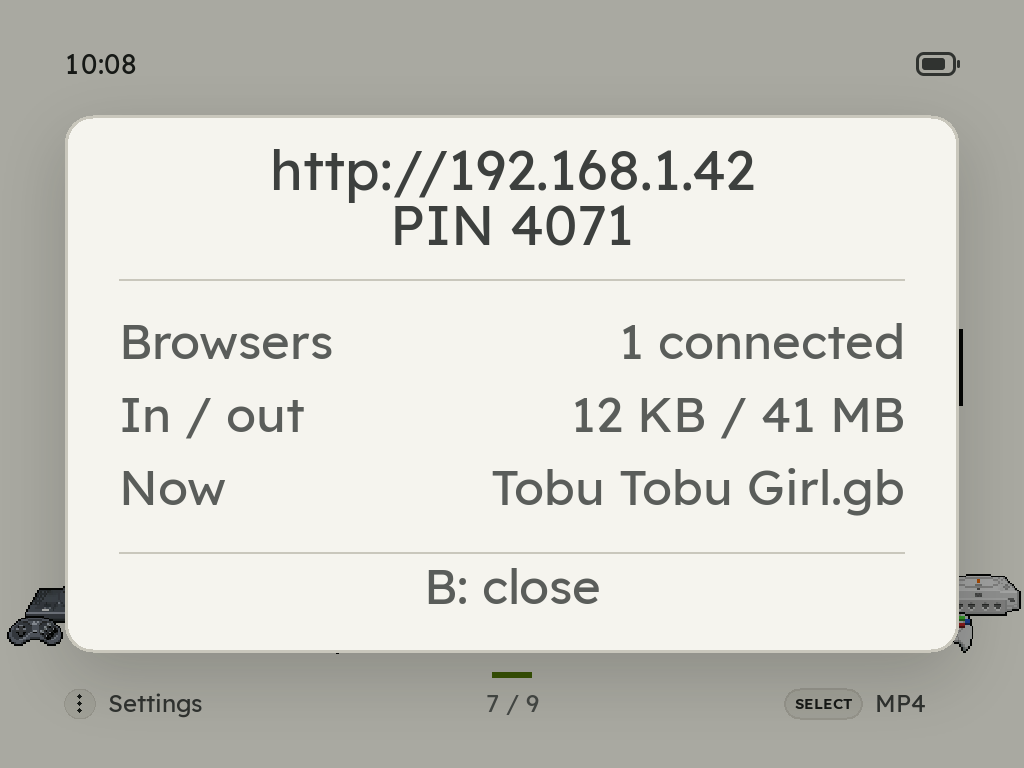
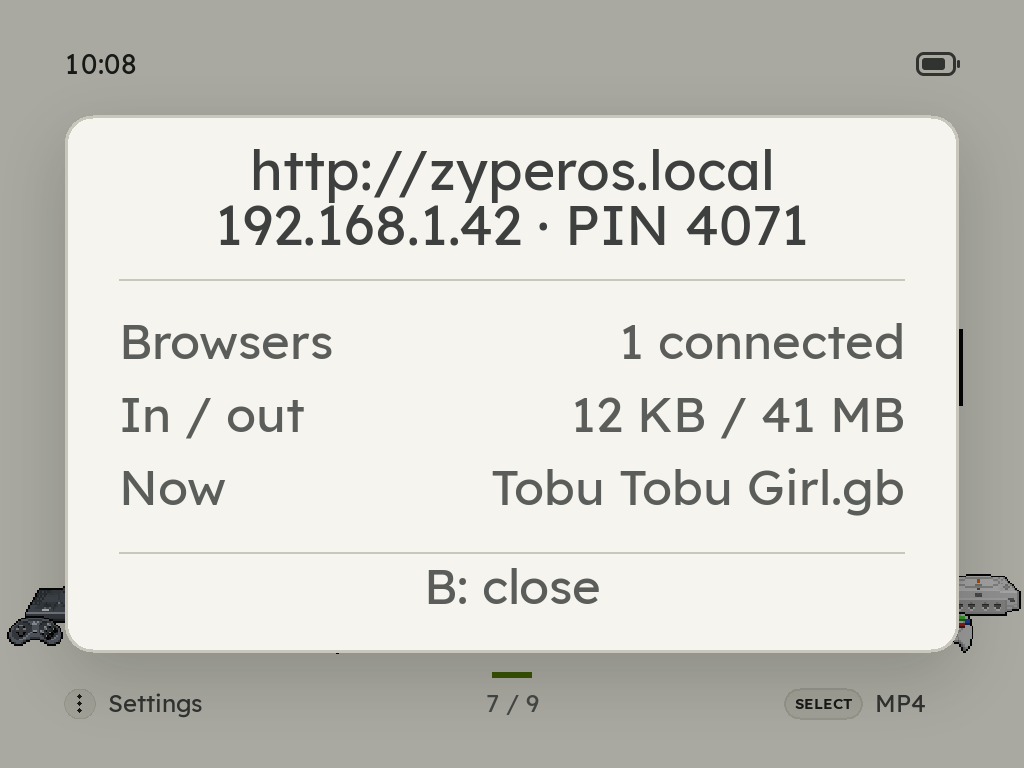
Docs: zyperos.local and the connection steps
README, the site, the guide, the add-games post, DESIGN.md 11.35 and the
Discord bot's transfer answer: the name, the steps and their hints, the /30,
and SSH by name. A new shot of the steps; the Wi-Fi shot with its new
heading.

Changed region(s): [[0.2188, 0.1875, 0.7812, 0.3438]]

diff --git a/site/index.html b/site/index.html
@@ -455,9 +455,10 @@
       <div><h3>Nintendo DS your way</h3><p>DSperate with three screen layouts and a d-pad stylus. Mario Kart DS races at 60 frames a second, and Game Language picks the language it speaks, whatever your BIOS files were dumped from.</p></div>
       <div><h3>MP4</h3><p>Music, audiobooks and videos on one shelf of their own covers, each marked album, book or video. SELECT opens it from anywhere, even in a game, and X or SELECT + START locks the screen.</p></div>
       <div><h3>Menu music</h3><p>Ten free 8-bit tracks behind the menus, never over a game. Your own in Roms/BGM play instead.</p></div>
-      <div><h3>Wi-Fi File Transfer</h3><p>Move games, music and saves from any browser, behind a PIN. With no Wi-Fi around, the handheld makes its own network for your phone. It keeps going while you play, and shows the time left.</p></div>
+      <div><h3>Wi-Fi File Transfer</h3><p>Move games, music and saves from any browser, behind a PIN, at http://zyperos.local. With no Wi-Fi around, the handheld makes its own network for your phone. It keeps going while you play, and shows the time left.</p></div>
       <div><h3>Battery care</h3><p>A charge limit of 80, 85 or 90%, a charging screen while the handheld is off, and a warning before a low battery or heat gets in the way. The corner can show the time left at once, or the time to full on the cable, instead of the percentage, and says so when the charge is on hold or done.</p></div>
       <div><h3>USB that only charges</h3><p>Plug in a computer and the Pixel 2 asks first: charge only, or open USB File Transfer. Developer Mode, hidden on About behind L2 + R2 held for five seconds, brings up SSH over the cable.</p></div>
+      <div><h3>A cable that finds its way</h3><p>Open http://zyperos.local on the computer. Until the page opens, USB File Transfer ticks off the cable, the address and the browser, and says what to do when one stalls. The cable is a network of two, so the computer never sends the page anywhere else.</p></div>
       <div><h3>System Update</h3><p>Over Wi-Fi, only what changed, signed, with Roll Back. Without Wi-Fi, the File Transfer page brings it over the USB cable.</p></div>
       <div><h3>Rumble and side lights</h3><p>Dreamcast, PlayStation and Game Boy Color rumble games shake the Pixel 2. Its four side lights show the battery charging and running low, the volume and brightness as you change them, a climb when files or covers finish, and a sparkle for an achievement. MENU &gt; Side Lights turns each on or off.</p></div>
       <div><h3>Clocks per system</h3><p>8-bit and handheld systems run at lower clocks, measured to keep every frame, and the battery lasts longer.</p></div>
@@ -473,7 +474,7 @@
   <div class="in split">
     <div class="stack">
       <h2>The File Transfer page</h2>
-      <p class="soft">The handheld shows an address and a PIN; open it in any browser, on a computer or a phone, over Wi-Fi, the handheld's own network or the USB cable. No app and no account.</p>
+      <p class="soft">The handheld shows its name, http://zyperos.local, its address and a PIN; open either in any browser, on a computer or a phone, over Wi-Fi, the handheld's own network or the USB cable. No app and no account.</p>
       <p class="soft">The card's folders, each in ZyperOS's pixel art, ROMs with a folder per console. Drop files anywhere to upload them, with the time left as they go and the card's free space checked first. Download, rename and delete from each file's menu. Over the cable, Settings fetches missing box art and updates ZyperOS with the computer's own internet.</p>
     </div>
     <figure class="browser"><img src="img/portal.png" width="1280" height="800" alt="The File Transfer page on a computer: the card's folders down the left with their pixel art, an NES folder open, and an upload under the folders with the time left" loading="lazy" decoding="async"></figure>
@@ -550,7 +551,7 @@
           <tr><th scope="row">Source, license</th><td class="us">GPL-3.0</td><td><span class="ic unk" tabindex="0" role="img" aria-label="Unknown. No source we read says either way." data-tip="No source we read says either way.">–</span></td><td>Its changed files, no license named</td><td>GPL-3.0</td><td>GPL-2.0 for its own code</td><td>MIT for its own code</td></tr>
           <tr><th scope="row">Install, latest</th><td class="us">Card image or ZyperOS Installer, v1.0.2 (Nov 2026)</td><td>On the card it comes with</td><td>Card image, then v1.22's files (Aug 2025)</td><td>Card image or TortOS Installer, v2.1.1 (Oct 2026)</td><td>Card image, 20261101 (Nov 2026)</td><td>Card image, v0.1.4 (Aug 2026), in testing</td></tr>
           <tr><th scope="row">Systems</th><td class="us">40, and Ports</td><td>Over 100 folders</td><td>117<sup>2</sup></td><td>11</td><td>120<sup>2</sup></td><td>86<sup>2</sup></td></tr>
-          <tr><th scope="row">Games without taking the card out</th><td class="us"><span class="ic yes" tabindex="0" role="img" aria-label="Yes. A web page over Wi-Fi or the USB cable, its own hotspot, and SSH" data-tip="A web page over Wi-Fi or the USB cable, its own hotspot, and SSH"><svg viewBox="0 0 24 24" aria-hidden="true"><path d="M5 12.5l4.5 4.5L19 7.5"/></svg></span></td><td><span class="ic yes" tabindex="0" role="img" aria-label="Yes. Samba file sharing over Wi-Fi" data-tip="Samba file sharing over Wi-Fi"><svg viewBox="0 0 24 24" aria-hidden="true"><path d="M5 12.5l4.5 4.5L19 7.5"/></svg></span></td><td><span class="ic yes" tabindex="0" role="img" aria-label="Yes. The USB cable, and SSH" data-tip="The USB cable, and SSH"><svg viewBox="0 0 24 24" aria-hidden="true"><path d="M5 12.5l4.5 4.5L19 7.5"/></svg></span></td><td><span class="ic yes" tabindex="0" role="img" aria-label="Yes. A web page over Wi-Fi or the USB cable" data-tip="A web page over Wi-Fi or the USB cable"><svg viewBox="0 0 24 24" aria-hidden="true"><path d="M5 12.5l4.5 4.5L19 7.5"/></svg></span></td><td><span class="ic yes" tabindex="0" role="img" aria-label="Yes. Samba, SFTP and the USB cable" data-tip="Samba, SFTP and the USB cable"><svg viewBox="0 0 24 24" aria-hidden="true"><path d="M5 12.5l4.5 4.5L19 7.5"/></svg></span></td><td><span class="ic yes" tabindex="0" role="img" aria-label="Yes. Samba, SFTP and FTP" data-tip="Samba, SFTP and FTP"><svg viewBox="0 0 24 24" aria-hidden="true"><path d="M5 12.5l4.5 4.5L19 7.5"/></svg></span></td></tr>
+          <tr><th scope="row">Games without taking the card out</th><td class="us"><span class="ic yes" tabindex="0" role="img" aria-label="Yes. A web page at zyperos.local over Wi-Fi or the USB cable, its own hotspot, and SSH" data-tip="A web page at zyperos.local over Wi-Fi or the USB cable, its own hotspot, and SSH"><svg viewBox="0 0 24 24" aria-hidden="true"><path d="M5 12.5l4.5 4.5L19 7.5"/></svg></span></td><td><span class="ic yes" tabindex="0" role="img" aria-label="Yes. Samba file sharing over Wi-Fi" data-tip="Samba file sharing over Wi-Fi"><svg viewBox="0 0 24 24" aria-hidden="true"><path d="M5 12.5l4.5 4.5L19 7.5"/></svg></span></td><td><span class="ic yes" tabindex="0" role="img" aria-label="Yes. The USB cable, and SSH" data-tip="The USB cable, and SSH"><svg viewBox="0 0 24 24" aria-hidden="true"><path d="M5 12.5l4.5 4.5L19 7.5"/></svg></span></td><td><span class="ic yes" tabindex="0" role="img" aria-label="Yes. A web page over Wi-Fi or the USB cable" data-tip="A web page over Wi-Fi or the USB cable"><svg viewBox="0 0 24 24" aria-hidden="true"><path d="M5 12.5l4.5 4.5L19 7.5"/></svg></span></td><td><span class="ic yes" tabindex="0" role="img" aria-label="Yes. Samba, SFTP and the USB cable" data-tip="Samba, SFTP and the USB cable"><svg viewBox="0 0 24 24" aria-hidden="true"><path d="M5 12.5l4.5 4.5L19 7.5"/></svg></span></td><td><span class="ic yes" tabindex="0" role="img" aria-label="Yes. Samba, SFTP and FTP" data-tip="Samba, SFTP and FTP"><svg viewBox="0 0 24 24" aria-hidden="true"><path d="M5 12.5l4.5 4.5L19 7.5"/></svg></span></td></tr>
           <tr><th scope="row">Box art on the device</th><td class="us"><span class="ic yes" tabindex="0" role="img" aria-label="Yes. Fetched on the handheld from libretro, ScreenScraper and SteamGridDB" data-tip="Fetched on the handheld from libretro, ScreenScraper and SteamGridDB"><svg viewBox="0 0 24 24" aria-hidden="true"><path d="M5 12.5l4.5 4.5L19 7.5"/></svg></span></td><td><span class="ic no" tabindex="0" role="img" aria-label="No. Not on the handheld: covers are scraped on a computer, with Skraper" data-tip="Not on the handheld: covers are scraped on a computer, with Skraper"><svg viewBox="0 0 24 24" aria-hidden="true"><path d="M7 7l10 10M17 7L7 17"/></svg></span></td><td><span class="ic yes" tabindex="0" role="img" aria-label="Yes. ScreenScraper, with your account" data-tip="ScreenScraper, with your account"><svg viewBox="0 0 24 24" aria-hidden="true"><path d="M5 12.5l4.5 4.5L19 7.5"/></svg></span></td><td><span class="ic yes" tabindex="0" role="img" aria-label="Yes. libretro and ScreenScraper" data-tip="libretro and ScreenScraper"><svg viewBox="0 0 24 24" aria-hidden="true"><path d="M5 12.5l4.5 4.5L19 7.5"/></svg></span></td><td><span class="ic yes" tabindex="0" role="img" aria-label="Yes. ScreenScraper" data-tip="ScreenScraper"><svg viewBox="0 0 24 24" aria-hidden="true"><path d="M5 12.5l4.5 4.5L19 7.5"/></svg></span></td><td><span class="ic yes" tabindex="0" role="img" aria-label="Yes. libretro&#x27;s thumbnails" data-tip="libretro&#x27;s thumbnails"><svg viewBox="0 0 24 24" aria-hidden="true"><path d="M5 12.5l4.5 4.5L19 7.5"/></svg></span></td></tr>
           <tr><th scope="row">Retro<wbr>Achievements</th><td class="us"><span class="ic yes" tabindex="0" role="img" aria-label="Yes. Sign in on the handheld" data-tip="Sign in on the handheld"><svg viewBox="0 0 24 24" aria-hidden="true"><path d="M5 12.5l4.5 4.5L19 7.5"/></svg></span></td><td><span class="ic unk" tabindex="0" role="img" aria-label="Unknown. No source we read says either way." data-tip="No source we read says either way.">–</span></td><td><span class="ic unk" tabindex="0" role="img" aria-label="Unknown. No source we read says either way." data-tip="No source we read says either way.">–</span></td><td><span class="ic yes" tabindex="0" role="img" aria-label="Yes. Sign in on the handheld" data-tip="Sign in on the handheld"><svg viewBox="0 0 24 24" aria-hidden="true"><path d="M5 12.5l4.5 4.5L19 7.5"/></svg></span></td><td><span class="ic yes" tabindex="0" role="img" aria-label="Yes. Built in" data-tip="Built in"><svg viewBox="0 0 24 24" aria-hidden="true"><path d="M5 12.5l4.5 4.5L19 7.5"/></svg></span></td><td><span class="ic unk" tabindex="0" role="img" aria-label="Unknown. No source we read says either way." data-tip="No source we read says either way.">–</span></td></tr>
           <tr><th scope="row">System updates</th><td class="us"><span class="ic yes" tabindex="0" role="img" aria-label="Yes. Over Wi-Fi or the USB cable, into a second system slot that rolls back if it fails" data-tip="Over Wi-Fi or the USB cable, into a second system slot that rolls back if it fails"><svg viewBox="0 0 24 24" aria-hidden="true"><path d="M5 12.5l4.5 4.5L19 7.5"/></svg></span></td><td><span class="ic unk" tabindex="0" role="img" aria-label="Unknown. No source we read says either way." data-tip="No source we read says either way.">–</span></td><td><span class="ic yes" tabindex="0" role="img" aria-label="Yes. Copy the new release&#x27;s files onto the card" data-tip="Copy the new release&#x27;s files onto the card"><svg viewBox="0 0 24 24" aria-hidden="true"><path d="M5 12.5l4.5 4.5L19 7.5"/></svg></span></td><td><span class="ic yes" tabindex="0" role="img" aria-label="Yes. With TortOS Installer, on a computer" data-tip="With TortOS Installer, on a computer"><svg viewBox="0 0 24 24" aria-hidden="true"><path d="M5 12.5l4.5 4.5L19 7.5"/></svg></span></td><td><span class="ic yes" tabindex="0" role="img" aria-label="Yes. Over the air, or from a file" data-tip="Over the air, or from a file"><svg viewBox="0 0 24 24" aria-hidden="true"><path d="M5 12.5l4.5 4.5L19 7.5"/></svg></span></td><td><span class="ic yes" tabindex="0" role="img" aria-label="Yes. Copy a file onto the card; a second system slot rolls back" data-tip="Copy a file onto the card; a second system slot rolls back"><svg viewBox="0 0 24 24" aria-hidden="true"><path d="M5 12.5l4.5 4.5L19 7.5"/></svg></span></td></tr>

diff --git a/site/blog/add-games-gkd-pixel-2.html b/site/blog/add-games-gkd-pixel-2.html
@@ -4,7 +4,7 @@ summary: Folder names and file types, then three ways in: the card in a computer
 crumb: Adding games
 topic: guide
 published: 2026-11-07
-updated: 2026-11-07
+updated: 2026-11-10
 image: portal
 image_alt: The File Transfer page on a computer, with an NES folder open and an upload going
 related: gkd-pixel-2-wifi-adapter, box-art-gkd-pixel-2, gkd-pixel-2-bios-files
@@ -51,8 +51,8 @@ weight: 20
 <p>The Pixel 2 has no Wi-Fi of its own, so this needs a USB Wi-Fi adapter in its USB-C port. <a href="/blog/gkd-pixel-2-wifi-adapter/">The Wi-Fi guide</a> says which ones work.</p>
 <ol>
   <li>Join a network in <strong>MENU &gt; Wi-Fi</strong>.</li>
-  <li>Open <strong>MENU &gt; Wi-Fi File Transfer</strong>. It shows an address and a four-digit PIN.</li>
-  <li>Open that address in a browser on your phone or computer, and type the PIN.</li>
+  <li>Open <strong>MENU &gt; Wi-Fi File Transfer</strong>. It shows its name, <code>http://zyperos.local</code>, its address and a four-digit PIN.</li>
+  <li>Open <code>http://zyperos.local</code> or that address in a browser on your phone or computer, and type the PIN.</li>
   <li>Drag games into their console's folder. They are on the shelf when you leave the screen.</li>
 </ol>
 <figure class="shot small"><img src="/img/hare.png" alt="Wi-Fi File Transfer on the handheld, showing the address, the PIN and one browser connected"><figcaption>The handheld shows the address, the PIN and who is connected.</figcaption></figure>
@@ -65,10 +65,12 @@ weight: 20
 <p>The same page, over the USB cable, with no Wi-Fi. It works with a Mac, Linux or Windows 11. Windows 10 has no driver for this kind of connection.</p>
 <ol>
   <li>Plug the Pixel 2 into the computer. The port only charges until you say otherwise, so the handheld asks: <strong>Charge Only</strong> or <strong>File Transfer</strong>. Choose File Transfer.</li>
-  <li>Open <code>http://10.42.0.1</code> in a browser on that computer, and type the PIN from the screen.</li>
+  <li>Open <code>http://zyperos.local</code> in a browser on that computer, or <code>http://10.42.0.1</code>, and type the PIN from the screen.</li>
   <li>Drag games into their console's folders.</li>
 </ol>
 <figure class="shot small"><img src="/img/usb-ask.png" alt="Computer Connected: Charge Only, File Transfer or Developer (SSH)"><figcaption>A computer on the cable gets a question first. A wall charger never does.</figcaption></figure>
+<figure class="shot small"><img src="/img/usb-steps.png" alt="USB File Transfer checking the connection: Cable and Address ticked, Browser waiting"><figcaption>Until a browser opens the page, the handheld ticks off each step.</figcaption></figure>
+<p>If the page does not open, look at the handheld. Until a browser opens the page, it shows three steps: <strong>Cable</strong> (the computer took the handheld and opened its network), <strong>Address</strong> (the computer took <code>10.42.0.2</code>) and <strong>Browser</strong>. A step that waits too long gets a hint under it: try another cable or port, check Device Manager on Windows, or turn off a VPN or proxy that sends the address somewhere else.</p>
 <p>While USB File Transfer is open, the computer can also open a shell on the handheld with <code>ssh root@10.42.0.1</code>, the PIN as the password. To copy with <code>scp</code>, add its <code>-O</code> flag, because the handheld has no SFTP server: <code>scp -O game.zip root@10.42.0.1:/roms/SNES/</code>.</p>
 
 <h2>The File Transfer page</h2>

diff --git a/discord/worker/src/answers.js b/discord/worker/src/answers.js
@@ -51,9 +51,10 @@ export const ANSWERS = {
     title: "Adding games",
     url: R + "adding-games-over-wi-fi",
     text:
-      "**Over Wi-Fi:** join a network in **MENU > Wi-Fi**, open **MENU > Wi-Fi File Transfer**, then open the address it shows in a browser and type the PIN.\n" +
-      "**Over the USB cable:** plug the Pixel 2 into a Mac, Linux or Windows 11 computer and choose **File Transfer** when it asks.\n\n" +
-      "Drag games into their console's folder, albums into `Music`, books into `Audiobooks` and films into `Videos`. They're on the shelf when you leave the screen. A card with no games shows both ways on its home.",
+      "**Over Wi-Fi:** join a network in **MENU > Wi-Fi**, open **MENU > Wi-Fi File Transfer**, then open `http://zyperos.local` (or the address it shows) in a browser and type the PIN.\n" +
+      "**Over the USB cable:** plug the Pixel 2 into a Mac, Linux or Windows 11 computer, choose **File Transfer** when it asks, and open `http://zyperos.local` or `http://10.42.0.1`.\n\n" +
+      "Drag games into their console's folder, albums into `Music`, books into `Audiobooks` and films into `Videos`. They're on the shelf when you leave the screen. A card with no games shows both ways on its home.\n\n" +
+      "**Page won't open?** Look at the handheld: until a browser opens the page it ticks off **Cable**, **Address** and **Browser**, and the step that waits says what to do. Turn off any VPN or proxy on the computer.",
   },
   portmaster: {
     title: "PortMaster",

diff --git a/tools/readme-shots.py b/tools/readme-shots.py
@@ -147,6 +147,9 @@ SHOTS={
     'hare':('demo','PS1',['--hare','http://192.168.1.42','1 connected','Tobu Tobu Girl.gb']),
     'hotspot':('demo','PS1',['--hotspot','ZyperOS-7A2B','q7mx-3kpa','1 joined','waiting']),
     'usb-ask':('demo','PS1',['--usb-ask','0']),
+    # USB File Transfer's steps (DESIGN.md 11.35): the cable and the address
+    # ticked, the browser awaited
+    'usb-steps':('demo','PS1',['--hare-steps','usb','browser']),
     'scummvm':('scummvm','SCUMMVM',['--screen','games']),
     # The in-game menu over OpenBOR (src/portmenu.h), on the launcher's
     # made-up frame rather than a game's

diff --git a/README.md b/README.md
@@ -133,7 +133,7 @@ Questions, ideas, or want to help build it? Come say hi on [the ZyperOS Discord]
 - **Delete a game from the handheld:** press X on a game and choose **Delete Game**. It asks first, naming the game, with the cursor on Cancel. The game's file or files go (a disc set's folder, a `.cue` with its tracks, an arcade set), with its saves, save states, cover, video snap, cached achievements, details and play time, and the shelf moves on to the next game. A file another game still uses stays, and so does a BIOS set like `neogeo.zip`.
 - **Storage, as a phone shows it:** **MENU > Storage** shows what fills the card in one bar, games, saves, art, media and ZyperOS, then every system and folder by size. A system's page lists its games largest first, each with the room Delete Game would give back; Music, Videos and Audiobooks open their albums, films and books the same way, and A deletes one. **X** sorts any of these lists by size, A to Z or last played. Two recommendations clear the covers and video snaps of games no longer on the card, and the save states of games you have not played for a year (the saves stay). It opens at once: the sizes are measured in the background and kept on the card ([below](#what-fills-my-card)).
 - **Video snaps:** rest on a game for a second, while a bar under its cover fills, and the cover turns into a few seconds of the game itself, from ScreenScraper. A play mark on a cover says its game has one. **MENU > Scraper > Video Snaps** turns them on, per console, and their sound starts muted.
-- **Wi-Fi File Transfer:** move games, music, audiobooks, videos, saves and covers on and off the card from any browser on your Wi-Fi, behind a PIN, on [a page made for it](#the-file-transfer-page), on a computer or a phone. With no Wi-Fi network around, the handheld makes [its own](#no-wi-fi-network-around), for a phone that scans the QR code on the screen. Or use the USB cable, with no Wi-Fi at all, as USB File Transfer. A transfer keeps going while you go back to the shelf, with a mark in the corner; B asks before it stops one halfway; the page shows the time left, checks the room on the card first, and its Settings page updates ZyperOS over the cable.
+- **Wi-Fi File Transfer:** move games, music, audiobooks, videos, saves and covers on and off the card from any browser on your Wi-Fi, behind a PIN, on [a page made for it](#the-file-transfer-page), on a computer or a phone. With no Wi-Fi network around, the handheld makes [its own](#no-wi-fi-network-around), for a phone that scans the QR code on the screen. Or use the USB cable, with no Wi-Fi at all, as USB File Transfer. Open it by name, `http://zyperos.local`, or by its address, and until a browser opens the page the screen checks the connection step by step and says what to do if a step stalls. A transfer keeps going while you go back to the shelf, with a mark in the corner; B asks before it stops one halfway; the page shows the time left, checks the room on the card first, and its Settings page updates ZyperOS over the cable.
 - **USB that only charges until you say so:** plug in a computer and the Pixel 2 asks whether it should charge, open USB File Transfer, or (on development images) bring up SSH. [Developer mode](#developer-mode) brings SSH up on a release image.
 - **System Update:** [over Wi-Fi](#system-update), only what changed, signed, with Roll Back. Without Wi-Fi, the File Transfer page brings it over the USB cable.
 - **Autosave and resume,** plus six save slots for when you want a checkpoint.
@@ -174,7 +174,7 @@ The GKD Pixel 2 has several operating systems to choose from. This is ZyperOS be
 | **Source, license** | GPL-3.0 | — | Its changed files, no license named | GPL-3.0 | GPL-2.0 for its own code | MIT for its own code |
 | **Install, latest** | Card image or ZyperOS Installer, v1.0.2 (Nov 2026) | On the card it comes with | Card image, then v1.22's files (Aug 2025) | Card image or TortOS Installer, v2.1.1 (Oct 2026) | Card image, 20261101 (Nov 2026) | Card image, v0.1.4 (Aug 2026), in testing |
 | **Systems** | 40, and Ports | Over 100 folders | 117<sup>2</sup> | 11 | 120<sup>2</sup> | 86<sup>2</sup> |
-| **Games without taking the card out** | Wi-Fi or USB web page, its own hotspot, SSH | Samba | USB cable, SSH | Wi-Fi or USB web page | Samba, SFTP, USB cable | Samba, SFTP, FTP |
+| **Games without taking the card out** | Wi-Fi or USB web page at zyperos.local, its own hotspot, SSH | Samba | USB cable, SSH | Wi-Fi or USB web page | Samba, SFTP, USB cable | Samba, SFTP, FTP |
 | **Box art on the device** | libretro, ScreenScraper<sup>3</sup>, SteamGridDB | On a computer (Skraper) | ScreenScraper | libretro, ScreenScraper | ScreenScraper | libretro |
 | **RetroAchievements** | Yes | — | — | Yes | Yes | — |
 | **System updates** | Over Wi-Fi or the USB cable, A/B with roll back | — | Copy the new files | TortOS Installer, on a computer | Over the air, or a file | A file you copy, A/B with roll back |
@@ -375,11 +375,11 @@ A card with no games opens on **No games yet** and the two ways to add them: **A
 <img align="right" width="360" src="res/readme/hare.png" alt="Wi-Fi File Transfer, with a browser connected">
 
 1. Join a network under **MENU > Wi-Fi**.
-2. Open **MENU > Wi-Fi File Transfer**. It shows an address and a PIN.
-3. Open that address in a browser on your phone or computer, and type the PIN. [The page](#the-file-transfer-page) opens on ROMs.
+2. Open **MENU > Wi-Fi File Transfer**. It shows its name, `http://zyperos.local`, its address and a PIN.
+3. Open `http://zyperos.local` or that address in a browser on your phone or computer, and type the PIN. [The page](#the-file-transfer-page) opens on ROMs.
 4. Drag games into their console's folder, albums into `Music`, books into `Audiobooks` or films into `Videos`. They're on the shelf when you leave the screen.
 
-The PIN is new every time you open Wi-Fi File Transfer.
+The PIN is new every time you open Wi-Fi File Transfer. With two ZyperOS handhelds on one network, the second is `zyperos-2.local`, and each screen shows its own name. Until a browser opens the page, the screen shows **Wi-Fi** and **Browser** with a tick each, and after 30 seconds with no browser it says what to type.
 
 <br clear="right">
 
@@ -405,13 +405,29 @@ The same thing over a cable, with no Wi-Fi, called USB File Transfer. It works w
 
 On the Pixel 2 the USB port only charges until you say otherwise, so a computer sees nothing at first. When one is plugged in, the shelf asks once, **Computer Connected**: **Charge Only** (where it starts, and what **B** means), **File Transfer**, or, on development images, **Developer (SSH)**. A wall charger is never asked about.
 
-1. Plug the device into the computer with a USB cable, and choose **File Transfer**. Or open **MENU > USB File Transfer**, which takes Wi-Fi File Transfer's place while a computer is on the cable. It shows an address and a PIN.
-2. Open that address in a browser on that computer, `http://10.55.0.2` on the Brick or `http://10.42.0.1` on the Pixel 2, and type the PIN.
+1. Plug the device into the computer with a USB cable, and choose **File Transfer**. Or open **MENU > USB File Transfer**, which takes Wi-Fi File Transfer's place while a computer is on the cable. It shows its name, `http://zyperos.local`, its address and a PIN.
+2. Open `http://zyperos.local` in a browser on that computer, or the address, `http://10.42.0.1` on the Pixel 2 or `http://10.55.0.2` on the Brick, and type the PIN.
 3. Drag games into their console's folder, albums into `Music`, books into `Audiobooks` or films into `Videos`. They're on the shelf when you leave the screen, or, with the transfer behind the shelf, a moment after they arrive.
 
 <br clear="right">
 
-While USB File Transfer is open on the Pixel 2, the computer can also open a shell on it: `ssh root@10.42.0.1`, with the PIN as the password. `ssh-copy-id root@10.42.0.1` saves your key on the card, so later logins skip the PIN. Closing File Transfer ends every session.
+#### If the page does not open
+
+<img align="right" width="360" src="res/readme/usb-steps.png" alt="USB File Transfer checking the connection: Cable and Address ticked, Browser waiting">
+
+On the Pixel 2, until a browser opens the page, USB File Transfer shows the connection as the handheld sees it, in three steps that tick as the computer gets there:
+
+- **Cable**: the computer took the handheld and opened its network. `unplugged` means no computer is on the cable: some USB cables only charge, so try another. Still waiting after 10 seconds, the screen says why: the computer did not answer (try another port or cable), or it has no driver for the handheld (on Windows, look in Device Manager).
+- **Address**: the computer took the address the handheld gives it, `10.42.0.2`. After 10 seconds without one, the screen points to Network adapters in Windows' Device Manager.
+- **Browser**: a browser asked for the page. After 30 seconds without one, the screen says what to type, and to turn off any VPN or proxy, which can send the address somewhere else.
+
+Once a browser opens the page, the screen shows File Transfer as usual. If the cable comes out, the steps come back.
+
+The cable is its own small network, the handheld at `10.42.0.1` and the computer at `10.42.0.2`, with nothing else on it. That is narrower than any other network the computer is on, so the computer always sends `10.42.0.1` down the cable, even when its Wi-Fi, a VPN or an office network also uses addresses that start with `10.42.0`.
+
+<br clear="right">
+
+While USB File Transfer is open on the Pixel 2, the computer can also open a shell on it: `ssh root@zyperos.local` (or `ssh root@10.42.0.1`), with the PIN as the password. `ssh-copy-id root@zyperos.local` saves your key on the card, so later logins skip the PIN. Closing File Transfer ends every session.
 
 ### Leaving the transfer screen
 
@@ -669,7 +685,7 @@ ZyperOS is C and SDL2, two repositories that build together:
 
 A release image starts no SSH and holds no key, so a shell on it is yours to ask for. Developer mode is how, and it stays out of the way until you look for it. On **MENU > About**, on the first page (the one with the version), hold **L2 and R2 together for five seconds**. A **Developer Mode** row appears with a bar that fills as the seconds pass, and letting go of either button, or leaving the page, starts again. When it is full, a message says **Developer Mode is on**, and the row stays on the first page as *on*. **MENU > Developer Mode** then opens its page, where **A** turns developer mode off again.
 
-With it on, the Pixel 2 behaves like a development build for as long as a computer is on the cable. The USB link stays up with no question, and SSH runs on the cable's address, `ssh root@10.42.0.1`, never over Wi-Fi. Closing a page or starting a game does not end it, and when the launcher restarts (a `tools/px2-deploy.sh` run does that) the sessions drop and SSH is back a few seconds later, so a key logs in again. Pulling the cable out, or turning developer mode off, ends it. There are two ways in, and both are yours:
+With it on, the Pixel 2 behaves like a development build for as long as a computer is on the cable. The USB link stays up with no question, and SSH runs on the cable's address, `ssh root@zyperos.local` or `ssh root@10.42.0.1`, never over Wi-Fi. Closing a page or starting a game does not end it, and when the launcher restarts (a `tools/px2-deploy.sh` run does that) the sessions drop and SSH is back a few seconds later, so a key logs in again. Pulling the cable out, or turning developer mode off, ends it. There are two ways in, and both are yours:
 
 - **A key from the card.** Copy your public key, `id_ed25519.pub` or any `.pub` file (or an `authorized_keys` file), into the `Developer` folder at the card's root; the Pixel makes the folder the first time. Plain public keys only: a line with options in front, such as a forced command, is skipped. A key taken is kept with the ones `ssh-copy-id` saves. The folder is outside `ZyperOS/` because an update swaps that one for the new version's.
 - **A password for this plug.** The Pixel makes eight random characters each time a computer is plugged in. Only **MENU > Developer Mode** shows them, and nothing keeps them. Five wrong ones lock SSH until the next plug, as File Transfer's PIN does. This is also how the first key gets in without taking the card out: sign in with the password, then run `ssh-copy-id root@10.42.0.1`.

diff --git a/docs/guide.md b/docs/guide.md
@@ -186,7 +186,7 @@ than any one console:
 | **Bluetooth** | the connected headset, or `not connected` - pair, connect and forget |
 | **Audio Output** | `Auto` or `Speaker`, and where Auto landed - see **Audio** below |
 | **Audio Channels** | `auto`, `stereo`, `mono`, `mono left` or `mono right` - see **Audio** below. `auto` on a new device and after an upgrade |
-| **Wi-Fi File Transfer** | the file server; needs Wi-Fi and says so when there is none. On the Pixel 2 with no network it says `hotspot`, and makes the handheld its own network for a phone to join - see below. While a computer is on the USB cable it is **USB File Transfer** instead, always at `10.55.0.2` on the Brick and `10.42.0.1` on the Pixel 2 |
+| **Wi-Fi File Transfer** | the file server; needs Wi-Fi and says so when there is none. On the Pixel 2 with no network it says `hotspot`, and makes the handheld its own network for a phone to join - see below. While a computer is on the USB cable it is **USB File Transfer** instead, at `http://zyperos.local`, or always at `10.55.0.2` on the Brick and `10.42.0.1` on the Pixel 2 |
 | **Date & Time** | the clock and the time zone, set with left and right - see below |
 | **Clock** | `12-hour` or `24-hour`, for the clock on the shelf and here. `12-hour` on a new device |
 | **Auto Off** | how long without a button before the device powers itself down. On the charger it does not power down; on the shelf the screen goes off instead, and any button (power too) lights it again |
@@ -414,9 +414,17 @@ across the top, warm for brightness and cyan for volume.
 **Wi-Fi File Transfer** (MENU, with Wi-Fi) and **USB File Transfer** (the same
 row while a computer is on the USB cable) put the card's folders in a web
 browser: ROMs, Music, Audiobooks, Videos, BIOS, Saves and Save States. The screen
-shows the address to open and a four-digit PIN, new each time it opens; the
-page asks for the PIN and opens as the fourth digit goes in. Five wrong PINs
-and the page waits 30 seconds.
+shows the handheld's name, `http://zyperos.local`, and under it its address
+and a four-digit PIN, new each time it opens. Either opens the page; the name
+is the easier one to type, and the address works where the name does not.
+The page asks for the PIN and opens as the fourth digit goes in. Five wrong
+PINs and the page waits 30 seconds.
+
+The name is answered by the handheld itself (multicast DNS, which macOS,
+Windows 10 and later, iOS, Android and most Linux desktops ask by
+themselves), on the cable while USB File Transfer is open and on the Wi-Fi
+network while Wi-Fi File Transfer is. With two ZyperOS handhelds on one
+network the second takes `zyperos-2.local`, and each screen shows its own.
 
 On a computer the folders are down the left, the open one in lime, and
 the uploads go on under them. On a phone the folders are a row of chips over
@@ -437,20 +445,44 @@ start now is dimmed and says why, and lights up as you plug in or unplug.
 When the first games arrive, by either screen or any other way, the home
 shows them, and Zyper cheers.
 
+### When the page does not open
+
+Until a browser opens the page, the screen shows the connection as the
+handheld sees it, in steps, each ticked when it is done, and the ones after
+the step it is waiting on dimmed:
+
+| Step | Ticked when | If it waits too long |
+|---|---|---|
+| **Cable** (USB) | the computer took the handheld and opened its network | `unplugged`: no computer is on the cable; after 5 seconds, the hint says some cables only charge. After 10 seconds with a computer that does not answer: try another USB port or cable. After 10 seconds with the computer answering and no network: it has no driver for the handheld; on Windows, look in Device Manager |
+| **Address** (USB) | the computer answers at the address the handheld gave it, `10.42.0.2` | after 10 seconds: check Network adapters in Windows' Device Manager |
+| **Wi-Fi** (Wi-Fi) | the handheld is on a network | after 5 seconds: connect to Wi-Fi first |
+| **Browser** | a browser asked for the page | after 30 seconds: type `http://zyperos.local` or the address, and turn off any VPN or proxy |
+
+A step that waits too long shows its hint under it, in place of the other
+steps. Once a browser opens the page the screen is the usual one, and if the
+cable comes out the steps come back.
+
+The USB cable is a network of two addresses, the handheld's `10.42.0.1` and
+the computer's `10.42.0.2` (a /30). That is narrower than any other network
+the computer is on, so the computer sends `10.42.0.1` down the cable even
+when its Wi-Fi, a VPN or an office network also uses `10.42.0.x`. On the
+Pixel 2, if the handheld's address server has stopped, USB File Transfer
+starts it again.
+
 ### SSH over the cable
 
 While **USB File Transfer** is open on the Pixel 2, the computer on the
 cable can also open a shell on the handheld:
 
 ```
-ssh root@10.42.0.1
+ssh root@zyperos.local
 ```
 
-The password is the PIN on the screen. To skip it next time, give the
+or `ssh root@10.42.0.1`. The password is the PIN on the screen. To skip it next time, give the
 handheld your key once, with the PIN:
 
 ```
-ssh-copy-id root@10.42.0.1
+ssh-copy-id root@zyperos.local
 ```
 
 The key stays on the card, in `.userdata/pixel2/ssh/`, with the handheld's

diff --git a/DESIGN.md b/DESIGN.md
@@ -2450,6 +2450,39 @@ from a fixture, with `--media-art DIR`'s pictures (now.png, before.png,
 c0.png..., snap.png) or the generated card; `--info-art`, the details as for
 a game with a cover and no video.
 
+### 11.35 File Transfer's heading and steps
+The transfer panel (11.3) of USB and Wi-Fi File Transfer, 2026-11-10. Its
+heading is the handheld's name on the network over its address and the PIN:
+"http://zyperos.local" on the first line, "10.42.0.1 · PIN 4071" on the
+second, both in **label** **text-soft**. The name is written with http:// so
+a browser opens it rather than searching for it; with a port other than 80
+both carry it. With no name (multicast DNS did not start) or no link (the
+heading then says "Cable unplugged" or "Wi-Fi went away"), the heading is the
+address over the PIN, as before.
+
+Until a browser opens the page, the rows under the rule are the steps of the
+connection as the handheld sees it (src/linksteps.h): over the cable
+**Cable**, **Address** and **Browser**; over Wi-Fi **Wi-Fi** and **Browser**;
+none on the hotspot screen (11.16), which says what it says. A step that is
+done has MENU_TICK as its value; the step waited on is a live row, its value
+"waiting" (or "unplugged" for a cable with no computer, "not connected" for
+no Wi-Fi); the steps after it are dead rows with no value. The rule and the
+key legend (11.4) follow, "B: close".
+
+A step that waits too long (the cable 5 seconds with no computer and 10 with
+one, the address 10, the browser 30) gets its hint: one sentence saying what
+to do about that step, in **menu** **text-dim**, centered and balanced onto
+at most three lines, in place of the other steps, under the stalled step's
+row and over the rule. Three steps and a three-line hint do not fit under a
+two-line heading, and a hint is about one step. The hints name the things a
+person can act on: another cable or port, Windows' Device Manager and its
+Network adapters, the name and the address to type, a VPN or proxy.
+
+Once a browser has asked, the rows are the usual ones (Browsers, SSH, In /
+out, Now); the steps come back if the cable or the Wi-Fi goes. Host shots:
+`--hare-steps usb|wifi STATE [noname]`, STATE one of unplugged, nocomputer,
+noanswer, nodriver, address, noaddress, browser, nobrowser, nonetwork.
+
 ## 12. Copy
 
 - Headings and rows in Title Case; status values lowercase; lines and
